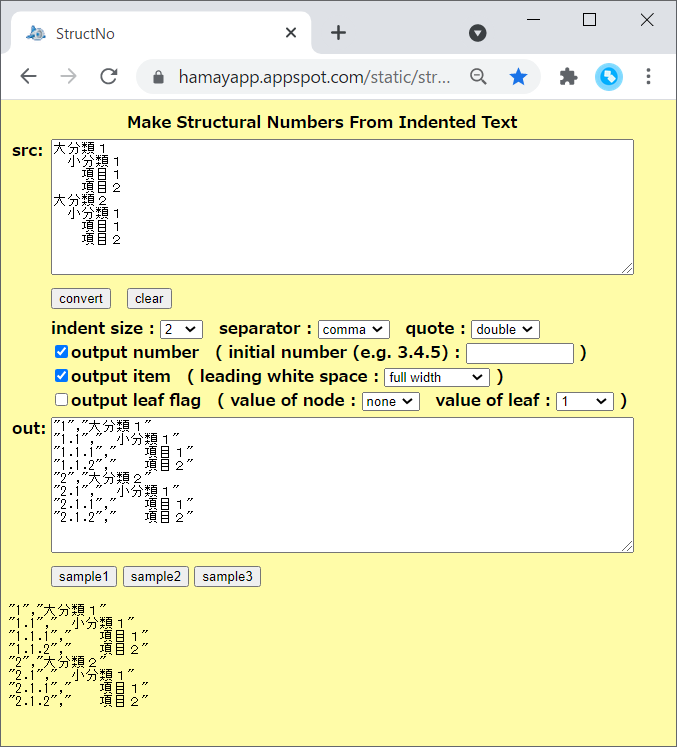
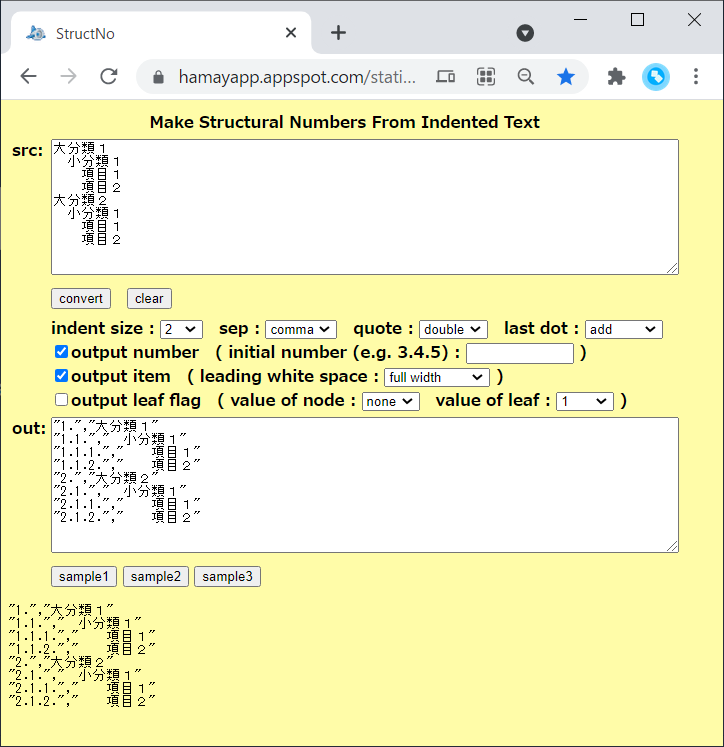
src chg v1.05

diff --git a/structno.html b/structno.html
@@ -5,7 +5,7 @@
 <title>StructNo</title>
 <!--
     structno.html
-    2021-7-10 v1.04
+    2021-7-11 v1.05
 -->
 <style type="text/css">
 <!--
@@ -42,6 +42,7 @@ function convert_button() {
     var indent_size;
     var separator_type;
     var quote_type;
+    var lastdot_type;
     var show_number;
     var init_numbers;
     var show_item;
@@ -58,20 +59,22 @@ function convert_button() {
     if (!document.getElementById("indentsize_select")) { Alm("convert_button:0002"); return false; }
     if (!document.getElementById("separator_select"))  { Alm("convert_button:0003"); return false; }
     if (!document.getElementById("quote_select"))      { Alm("convert_button:0004"); return false; }
-    if (!document.getElementById("number_check"))      { Alm("convert_button:0005"); return false; }
-    if (!document.getElementById("item_check"))        { Alm("convert_button:0006"); return false; }
-    if (!document.getElementById("init_numbers"))      { Alm("convert_button:0007"); return false; }
-    if (!document.getElementById("space_select"))      { Alm("convert_button:0008"); return false; }
-    if (!document.getElementById("leaf_check"))        { Alm("convert_button:0009"); return false; }
-    if (!document.getElementById("node_select"))       { Alm("convert_button:0010"); return false; }
-    if (!document.getElementById("leaf_select"))       { Alm("convert_button:0011"); return false; }
-    if (!document.getElementById("out_text1"))         { Alm("convert_button:0012"); return false; }
-    if (!document.getElementById("result_show1"))      { Alm("convert_button:0013"); return false; }
+    if (!document.getElementById("lastdot_select"))    { Alm("convert_button:0005"); return false; }
+    if (!document.getElementById("number_check"))      { Alm("convert_button:0006"); return false; }
+    if (!document.getElementById("item_check"))        { Alm("convert_button:0007"); return false; }
+    if (!document.getElementById("init_numbers"))      { Alm("convert_button:0008"); return false; }
+    if (!document.getElementById("space_select"))      { Alm("convert_button:0009"); return false; }
+    if (!document.getElementById("leaf_check"))        { Alm("convert_button:0010"); return false; }
+    if (!document.getElementById("node_select"))       { Alm("convert_button:0011"); return false; }
+    if (!document.getElementById("leaf_select"))       { Alm("convert_button:0012"); return false; }
+    if (!document.getElementById("out_text1"))         { Alm("convert_button:0013"); return false; }
+    if (!document.getElementById("result_show1"))      { Alm("convert_button:0014"); return false; }
     // ***** ソースの取得 *****
     src_st =         document.getElementById("src_text1").value;
     indent_size =    document.getElementById("indentsize_select").selectedIndex + 1;
     separator_type = document.getElementById("separator_select").selectedIndex;
     quote_type =     document.getElementById("quote_select").selectedIndex;
+    lastdot_type =   document.getElementById("lastdot_select").selectedIndex;
     show_number =    document.getElementById("number_check").checked;
     init_numbers =   document.getElementById("init_numbers").value;
     show_item =      document.getElementById("item_check").checked;
@@ -80,7 +83,8 @@ function convert_button() {
     node_type =      document.getElementById("node_select").selectedIndex;
     leaf_type =      document.getElementById("leaf_select").selectedIndex;
     // ***** 変換実行 *****
-    result = StructNo.convert(src_st, indent_size, separator_type, quote_type,
+    result = StructNo.convert(src_st,
+                              indent_size, separator_type, quote_type, lastdot_type,
                               show_number, init_numbers, show_item, space_type,
                               show_leaf, node_type, leaf_type);
     // ***** 出力の表示 *****
@@ -174,13 +178,15 @@ function sample_button(sample_no) {
 //
 // 公開I/F :
 //
-//   StructNo.convert(src_st, indent_size, separator_type, quote_type,
+//   StructNo.convert(src_st,
+//                    indent_size, separator_type, quote_type, lastdot_type,
 //                    show_number, init_numbers, show_item, space_type,
 //                    show_leaf, node_type, leaf_type)  変換実行
 //     src_st          ソース(文字列)
 //     indent_size     インデントの空白数(=1-10)
 //     separator_type  区切り記号種別(=0:カンマ,=1:タブ,=2:空白(半角))
 //     quote_type      クォート種別(=0:なし,=1:シングル,=2:ダブル)
+//     lastdot_type    最終ドット種別(=0:なし,=1:あり,=2:第1階層のみあり)
 //     show_number     項目番号表示フラグ(boolean)
 //     init_numbers    初期番号設定(文字列)("1.2.3" 等)
 //     show_item       項目内容表示フラグ(boolean)
@@ -202,6 +208,7 @@ var StructNo;
     var indent_size;     // インデントの空白数(=1-10)
     var separator_type;  // 区切り記号種別(=0:カンマ,=1:タブ,=2:空白(半角))
     var quote_type;      // クォート種別(=0:なし,=1:シングル,=2:ダブル)
+    var lastdot_type;    // 最終ドット種別(=0:なし,=1:あり,=2:第1階層のみあり)
     var show_number;     // 項目番号表示フラグ(boolean)
     var init_numbers;    // 初期番号設定(文字列)("1.2.3" 等)
     var show_item;       // 項目内容表示フラグ(boolean)
@@ -221,7 +228,8 @@ var StructNo;
     // ***** 公開I/F *****
 
     // ***** 変換実行 *****
-    function convert(src_st1, indent_size1, separator_type1, quote_type1,
+    function convert(src_st1,
+                     indent_size1, separator_type1, quote_type1, lastdot_type1,
                      show_number1, init_numbers1, show_item1, space_type1,
                      show_leaf1, node_type1, leaf_type1) {
         var i, j;
@@ -247,13 +255,14 @@ var StructNo;
         if (indent_size1 == null)    { Alm("StructNo.convert:0002"); return result; }
         if (separator_type1 == null) { Alm("StructNo.convert:0003"); return result; }
         if (quote_type1 == null)     { Alm("StructNo.convert:0004"); return result; }
-        if (show_number1 == null)    { Alm("StructNo.convert:0005"); return result; }
-        if (init_numbers1 == null)   { Alm("StructNo.convert:0006"); return result; }
-        if (show_item1 == null)      { Alm("StructNo.convert:0007"); return result; }
-        if (space_type1 == null)     { Alm("StructNo.convert:0008"); return result; }
-        if (show_leaf1 == null)      { Alm("StructNo.convert:0009"); return result; }
-        if (node_type1 == null)      { Alm("StructNo.convert:0010"); return result; }
-        if (leaf_type1 == null)      { Alm("StructNo.convert:0011"); return result; }
+        if (lastdot_type1 == null)   { Alm("StructNo.convert:0005"); return result; }
+        if (show_number1 == null)    { Alm("StructNo.convert:0006"); return result; }
+        if (init_numbers1 == null)   { Alm("StructNo.convert:0007"); return result; }
+        if (show_item1 == null)      { Alm("StructNo.convert:0008"); return result; }
+        if (space_type1 == null)     { Alm("StructNo.convert:0009"); return result; }
+        if (show_leaf1 == null)      { Alm("StructNo.convert:0010"); return result; }
+        if (node_type1 == null)      { Alm("StructNo.convert:0011"); return result; }
+        if (leaf_type1 == null)      { Alm("StructNo.convert:0012"); return result; }
 
         // ***** ソースの取得 *****
         src_st = src_st1;
@@ -264,6 +273,7 @@ var StructNo;
         if (indent_size <= 0) { indent_size = 1; }
         separator_type = separator_type1 | 0;
         quote_type     = quote_type1 | 0;
+        lastdot_type   = lastdot_type1 | 0;
         show_number    = show_number1;
         init_numbers   = init_numbers1;
         show_item      = show_item1;
@@ -321,6 +331,8 @@ var StructNo;
                     // (初期設定フラグOFF)
                     init_number_flag[j] = false;
                 }
+                // (最終ドットの追加)
+                number_st = add_lastdot(number_st);
             }
 
             // ***** 葉の値の文字列を生成 *****
@@ -446,6 +458,15 @@ var StructNo;
         }
     }
 
+    // ***** 最終ドットの追加 *****
+    function add_lastdot(str) {
+        switch (lastdot_type) {
+            case 1:  return str + ".";
+            case 2:  return str + (str.indexOf(".") < 0 ? "." : "");
+            default: return str;
+        }
+    }
+
     // ***** ノードの値の取得 *****
     function get_node_value() {
         switch (node_type) {
@@ -527,7 +548,7 @@ indent size : <select id="indentsize_select" style="margin-top: 10px;">
 <option value="8">9</option>
 <option value="9">10</option>
 </select> &nbsp;
-separator : <select id="separator_select">
+sep : <select id="separator_select">
 <option value="0">comma</option>
 <option value="1">tab</option>
 <option value="2">space</option>
@@ -536,6 +557,11 @@ quote : <select id="quote_select">
 <option value="0">none</option>
 <option value="1">single</option>
 <option value="2" selected>double</option>
+</select> &nbsp;
+last dot : <select id="lastdot_select">
+<option value="0">none</option>
+<option value="1">add</option>
+<option value="2">first only</option>
 </select><br>
 <input type="checkbox" id="number_check" checked><label for="number_check">output number</label> &nbsp;
 ( initial number (e.g. 3.4.5) : <input type="text" id="init_numbers" value="" style="width: 100px;"> )<br>

diff --git a/README.md b/README.md
@@ -20,7 +20,7 @@
 
 - indent size コンボボックスでは、インデント 1 個に相当するスペースの数を指定します。
 
-- separator コンボボックスでは、出力の項目間の区切り記号を指定します。  
+- sep (separator) コンボボックスでは、出力の項目間の区切り記号を指定します。  
   カンマ、タブ、スペース(半角) のいずれかを指定できます。
 
 - quote コンボボックスでは、出力の各項目をクォートで囲って出力するかどうかを指定します。  
@@ -29,6 +29,11 @@
   (このとき、データ内のシングルクォート自身は、連続するシングルクォート 2 個に変換されます)  
   double を選択すると、出力の各項目をダブルクォート(")で囲って出力します。  
   (このとき、データ内のダブルクォート自身は、連続するダブルクォート 2 個に変換されます)
+
+- last dot コンボボックスでは、最終ドットの追加を行うかどうかを指定します。  
+  none を選択すると、項目番号の最後にドット(.)を追加しません。  
+  add を選択すると、項目番号の最後にドット(.)を追加します。  
+  first only を選択すると、項目番号が第1階層のみのときだけ、ドット(.)を追加します。
 
 - output number チェックボックスにチェックを入れると、  
   項目番号を出力します。
@@ -80,7 +85,8 @@
 - 2020-8-12  v1.01 一部処理見直し(文字列の繰り返し等)
 - 2020-8-22  v1.02 クォートの選択項目を追加
 - 2020-12-14 v1.03 ソースの空白見直し
-- 2021-7-10  v1.04 初期番号設定のテキストボックス追加
+- 2021-7-10  v1.04 初期番号設定のテキストボックスを追加
+- 2021-7-11  v1.05 最終ドット種別のコンボボックスを追加
 
 
 (2021-7-11)
